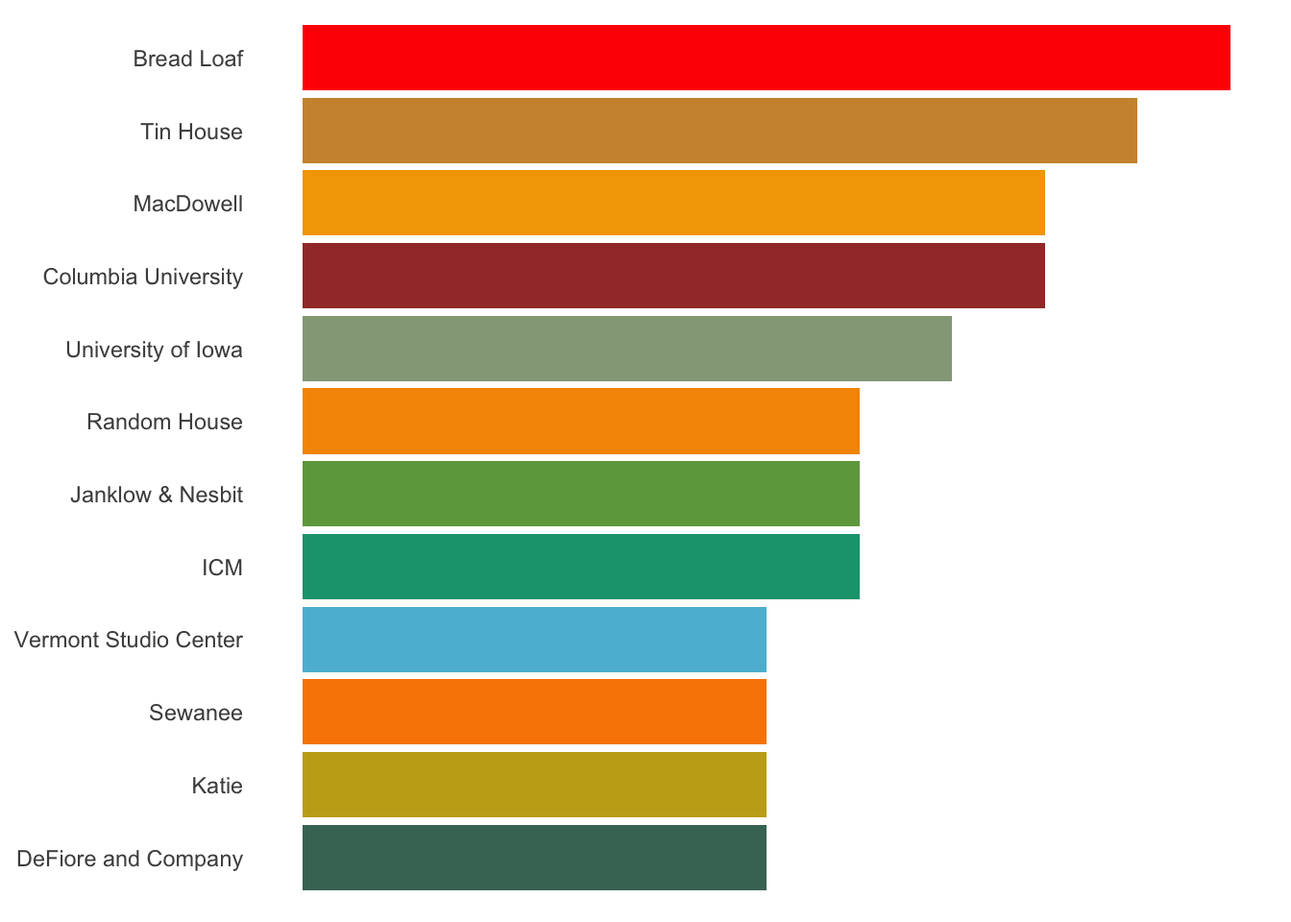
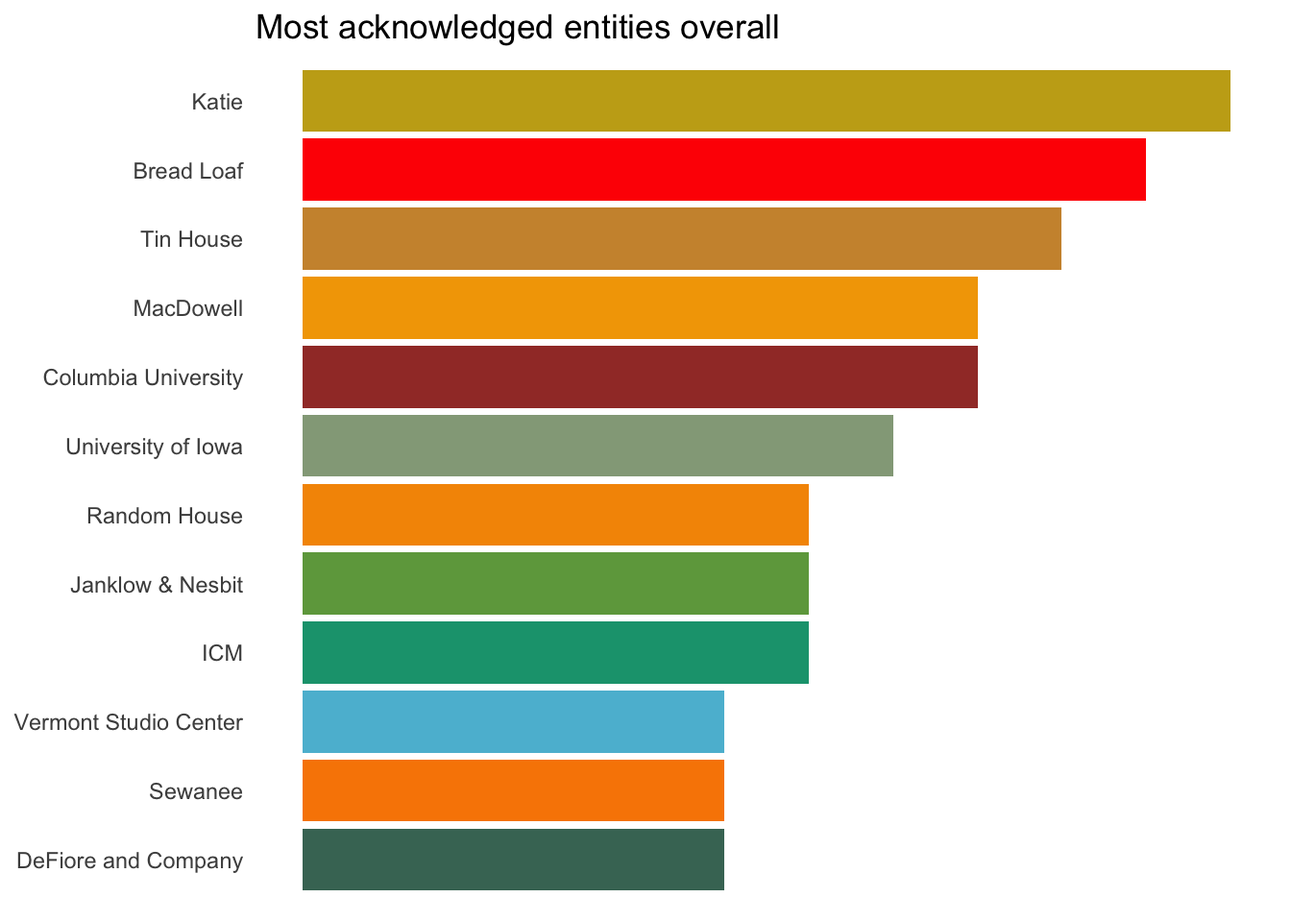
Actually update rmd and add page for my novel

diff --git a/first_observations.html b/first_observations.html
@@ -12,7 +12,7 @@
 
 
 
-<title>Personal Project</title>
+<title>Get You A Katie: An Analysis of Debut Novel Acknowledgements</title>
 
 <script src="site_libs/jquery-1.11.3/jquery.min.js"></script>
 <meta name="viewport" content="width=device-width, initial-scale=1" />
@@ -277,6 +277,9 @@ $(document).ready(function () {
         <li>
   <a href="first_observations.html">Get You A Katie: An Analysis of Debut Novel Acknowledgements</a>
 </li>
+<li>
+  <a href="basic_workflow.html">Everything's Fine: My Debut Novel</a>
+</li>
       </ul>
       <ul class="nav navbar-nav navbar-right">
         
@@ -289,23 +292,70 @@ $(document).ready(function () {
 
 
 
-<h1 class="title toc-ignore">Personal Project</h1>
+<h1 class="title toc-ignore">Get You A Katie: An Analysis of Debut Novel Acknowledgements</h1>
 
 </div>
 
 
-<div id="r-markdown" class="section level2">
-<h2>R Markdown</h2>
-<p>This is an R Markdown document. Markdown is a simple formatting syntax for authoring HTML, PDF, and MS Word documents. For more details on using R Markdown see <a href="http://rmarkdown.rstudio.com" class="uri">http://rmarkdown.rstudio.com</a>.</p>
-<p>When you click the <strong>Knit</strong> button a document will be generated that includes both content as well as the output of any embedded R code chunks within the document. You can embed an R code chunk like this:</p>
-</div>
-<div id="including-plots" class="section level2">
-<h2>Including Plots</h2>
-<p>You can also embed plots, for example:</p>
+<div id="what-is-this" class="section level2">
+<h2>What is this?</h2>
+<p>One of the most oft repeated pieces of advice for aspiring writers looking for literary agents is to look at the acknowledgements section of novels to see which literary agents represent the writers they admire. From there, the advice goes, just query those agents and, with a bit of work and kismit, one day <em>you’ll</em> be the published author whose acknowledgements people are trolling.</p>
+<p>Okay, then!</p>
+<p>The rest of this analysis is me taking that advice… too far? Sure I could have read the acknowledgements, made my list of literary agents and gone about my business, but I had more questions. And when I have questions, I do stuff with data. (I am a novelist cum data scientist, if you recall.)</p>
+<p>I created a dataset consisting of all of the debut authors that had been nominated for the Center for Fiction First Novel Prize in the past three years (2020, 2019, 2018) and did some analysis, based on… you guessed it, the contents of their acknowledgements. In a perfect world, I could do this for every single debut author, ever, but in practice I needed to limit the size of the dataset and chose this particular group of ~80 writers because it seemed like a somewhat representative cohort of fiction that I enjoy and that have also enjoyed some level of acclaim (owing to the prize nomination and all.) Why debut novelists you ask? Well, one, because that’s what I’m working toward. But two, technically speaking, it meant that writers would not be duplicated in the dataset year over year (because, you’re only a debut novelist once.) How elegant!</p>
+<p>Below, I’m dropping that knowledge, for the whole world (i.e. other people writing literary fiction and looking for agents) to enjoy.</p>
+<blockquote>
+<p>Who’s getting shoutouts? (aka: get you a Katie!)</p>
+</blockquote>
+<p>There are a few different types of entities that writers typically acknowledge:</p>
+<ul>
+<li>agents / agencies</li>
+<li>editors / publishing houses</li>
+<li>MFA programs</li>
+<li>Workshops / retreats / foundations</li>
+<li>Friends and family</li>
+</ul>
+<p>For the purposes of this analysis I’ve organized these entities into three broader categories: agencies, organizations, and individuals. The charts below highlight the entities (agencies, organizations, and individuals) that were shouted out the most by the debut authors.</p>
+<p>If we look across all entities we see a mix of agencies and organizations on the leaderboard. You’ll notice only one individual make the top ten overall list. That individual is none other than… <strong>Katie!</strong></p>
+<p>(I found it amusing that 1 out of every 7 debut authors acknowledged someone named Katie… I know, I know, there are lots of Katies out there supporting the arts, but… it’s really hard to get into Bread Loaf or Tin House. Finding a Katie to stan my work, though? Feels more doable.)</p>
 <p><img src="first_observations_files/figure-html/most_thanked_entities-1.png" width="672" /></p>
+<p><img src="first_observations_files/figure-html/most_thanked_agencies-1.png" width="672" /></p>
+<p><img src="first_observations_files/figure-html/most_thanked_individuals-1.png" width="672" /></p>
+<blockquote>
+<p>How many people does it take to write a novel? (spoiler: a small to medium sized village)</p>
+</blockquote>
+<p>We looked at who’s getting shoutouts, now let’s look at how many shoutouts our debut authors are giving. Below is the distribution of the number of entities thanked across all of our authors. So how big a village does it take to write a novel?</p>
+<p><strong>The short answer? 30.</strong></p>
+<p>Most debut novelists acknowledge 29 people or more – call it 30 if we include the author who… probably did the most work?</p>
+<p>The minimum number of entities acknowledged is… 0. (Whomp whomp whomp.) And the maximum is a much more bustling village of 88.</p>
 <p><img src="first_observations_files/figure-html/n_entities_thanked-1.png" width="672" /></p>
-<div id="htmlwidget-92f59d97770d22cf859d" style="width:672px;height:480px;" class="forceNetwork html-widget"></div>
-<script type="application/json" data-for="htmlwidget-92f59d97770d22cf859d">{"x":{"links":{"source":[36,62,15,33,37,23,55,31,29,16,38,6,14,28,40,38,55,54,51,54,51,20,39,10,33,61,23,30,28,54,51,0,30,6,5,5,67,10,53,12,55,46,29,51,15,37,3,16,34,58,3,9,14,58,26,60,21,36,31,1,37,52,26,55,13,2,46,11,22,11,58,23,2,58,41,45,12,46,17,70,54,33,53,6,22,46,52,43,3,34,69,6,44,9,40,30,11,21,31,29,20,24,48,63,15,6,54,51,14,41,31,29,36,39,3,4,19,17,29,24,46,19,64,32,19,2,29,21,1,35,43,55,26,26,2,42,8,54,74,27,8,63,31,29,37,3,32,37,59,60,29,66,48,53,46,8,53,13,50,22,46,58,3,34,12,45,6,52,8,4,17,7,34,45,3,31,29,14,28,15,31,72,54,51,26,26,43,16,21,16,20,6,21,19,57,25,6,6,39,19,58,0,4,61,43,23,41,14,28,36,19,41,38,28,71,57,45,30,47,21,29,31,16,56,42,32,52,18,23,41,32,40,34,3,19,15,57,26,11,57,25,36,29,13,53,33,7,25,57,55,26,4,52,37,4,25,1,40,41,54,12,52,51,27,2,28,14,13,12,29,57,25,13,50,56,4,19,11,29,41,19,36,38,64,36,31,66,10,35,15,25,12,53,62,14,65,20,39,51,54,27,30,28,51,3,34,5,53,75,17,22,41,10,53,4,12,63,20,25,6,2,1,54,11,31,7,18,20,68,28,12,36,9,19,24,31,29,5,18,37,15,67,3,38,69,65,21,58,28,53,5,59,49,16,52,50,37,21,49,73,0,45,25,47,52,41,36,61,38,25],"target":[196,183,183,116,116,116,116,130,130,88,88,88,99,99,99,138,138,142,142,144,144,112,112,178,178,178,178,124,124,143,143,76,76,210,9,9,185,96,96,96,96,96,96,96,96,96,96,217,217,151,151,151,215,157,157,157,157,133,133,77,77,77,159,159,214,148,148,148,148,148,148,148,148,161,161,46,180,180,180,191,160,160,91,91,115,115,139,139,83,83,176,176,176,176,176,190,94,94,128,128,110,110,201,224,87,87,146,146,182,126,126,126,126,199,206,173,173,106,106,188,167,167,167,167,80,80,56,170,170,170,170,158,158,221,171,171,171,171,171,171,212,195,131,131,84,84,175,175,175,175,175,175,141,141,92,92,97,97,114,114,114,193,82,82,25,89,89,86,86,86,86,86,81,81,81,132,132,101,101,102,102,194,145,145,189,122,122,104,104,184,39,90,90,90,117,117,45,45,45,162,162,162,162,162,162,162,162,98,98,108,108,108,125,125,192,140,140,113,113,113,127,127,103,103,136,136,136,107,107,135,135,135,149,149,156,156,154,154,154,119,119,129,129,155,155,211,211,118,118,121,121,207,85,85,85,44,78,78,78,147,147,147,147,147,147,100,100,95,95,95,120,120,181,202,152,152,152,58,109,109,109,109,198,198,134,134,209,93,93,163,163,163,163,163,64,169,111,111,123,123,123,222,222,204,172,174,174,174,203,218,187,187,164,164,164,164,164,164,164,164,164,79,79,179,177,177,177,186,186,186,213,208,208,208,208,208,208,208,220,225,216,219,150,150,223,205,205,153,153,153,153,153,105,105,105,165,165,165,197,197,168,168,168,200,200,137,137,166,166,166],"colour":["FFFFFF","FFFFFF","FFFFFF","FFFFFF","FFFFFF","FFFFFF","FFFFFF","FFFFFF","FFFFFF","FFFFFF","FFFFFF","FFFFFF","FFFFFF","FFFFFF","FFFFFF","FFFFFF","FFFFFF","FFFFFF","FFFFFF","FFFFFF","FFFFFF","FFFFFF","FFFFFF","FFFFFF","FFFFFF","FFFFFF","FFFFFF","FFFFFF","FFFFFF","FFFFFF","FFFFFF","FFFFFF","FFFFFF","FFFFFF","FFFFFF","FFFFFF","FFFFFF","FFFFFF","FFFFFF","FFFFFF","FFFFFF","FFFFFF","FFFFFF","FFFFFF","FFFFFF","FFFFFF","FFFFFF","FFFFFF","FFFFFF","FFFFFF","FFFFFF","FFFFFF","FFFFFF","FFFFFF","FFFFFF","FFFFFF","FFFFFF","FFFFFF","FFFFFF","FFFFFF","FFFFFF","FFFFFF","FFFFFF","FFFFFF","FFFFFF","FFFFFF","FFFFFF","FFFFFF","FFFFFF","FFFFFF","FFFFFF","FFFFFF","FFFFFF","FFFFFF","FFFFFF","FFFFFF","FFFFFF","FFFFFF","FFFFFF","FFFFFF","FFFFFF","FFFFFF","FFFFFF","FFFFFF","FFFFFF","FFFFFF","FFFFFF","FFFFFF","FFFFFF","FFFFFF","FFFFFF","FFFFFF","FFFFFF","FFFFFF","FFFFFF","FFFFFF","FFFFFF","FFFFFF","FFFFFF","FFFFFF","FFFFFF","FFFFFF","FFFFFF","FFFFFF","FFFFFF","FFFFFF","FFFFFF","FFFFFF","FFFFFF","FFFFFF","FFFFFF","FFFFFF","FFFFFF","FFFFFF","FFFFFF","FFFFFF","FFFFFF","FFFFFF","FFFFFF","FFFFFF","FFFFFF","FFFFFF","FFFFFF","FFFFFF","FFFFFF","FFFFFF","FFFFFF","FFFFFF","FFFFFF","FFFFFF","FFFFFF","FFFFFF","FFFFFF","FFFFFF","FFFFFF","FFFFFF","FFFFFF","FFFFFF","FFFFFF","FFFFFF","FFFFFF","FFFFFF","FFFFFF","FFFFFF","FFFFFF","FFFFFF","FFFFFF","FFFFFF","FFFFFF","FFFFFF","FFFFFF","FFFFFF","FFFFFF","FFFFFF","FFFFFF","FFFFFF","FFFFFF","FFFFFF","FFFFFF","FFFFFF","FFFFFF","FFFFFF","FFFFFF","FFFFFF","FFFFFF","FFFFFF","FFFFFF","FFFFFF","FFFFFF","FFFFFF","FFFFFF","FFFFFF","FFFFFF","FFFFFF","FFFFFF","FFFFFF","FFFFFF","FFFFFF","FFFFFF","FFFFFF","FFFFFF","FFFFFF","FFFFFF","FFFFFF","FFFFFF","FFFFFF","FFFFFF","FFFFFF","FFFFFF","FFFFFF","FFFFFF","FFFFFF","FFFFFF","FFFFFF","FFFFFF","FFFFFF","FFFFFF","FFFFFF","FFFFFF","FFFFFF","FFFFFF","FFFFFF","FFFFFF","FFFFFF","FFFFFF","FFFFFF","FFFFFF","FFFFFF","FFFFFF","FFFFFF","FFFFFF","FFFFFF","FFFFFF","FFFFFF","FFFFFF","FFFFFF","FFFFFF","FFFFFF","FFFFFF","FFFFFF","FFFFFF","FFFFFF","FFFFFF","FFFFFF","FFFFFF","FFFFFF","FFFFFF","FFFFFF","FFFFFF","FFFFFF","FFFFFF","FFFFFF","FFFFFF","FFFFFF","FFFFFF","FFFFFF","FFFFFF","FFFFFF","FFFFFF","FFFFFF","FFFFFF","FFFFFF","FFFFFF","FFFFFF","FFFFFF","FFFFFF","FFFFFF","FFFFFF","FFFFFF","FFFFFF","FFFFFF","FFFFFF","FFFFFF","FFFFFF","FFFFFF","FFFFFF","FFFFFF","FFFFFF","FFFFFF","FFFFFF","FFFFFF","FFFFFF","FFFFFF","FFFFFF","FFFFFF","FFFFFF","FFFFFF","FFFFFF","FFFFFF","FFFFFF","FFFFFF","FFFFFF","FFFFFF","FFFFFF","FFFFFF","FFFFFF","FFFFFF","FFFFFF","FFFFFF","FFFFFF","FFFFFF","FFFFFF","FFFFFF","FFFFFF","FFFFFF","FFFFFF","FFFFFF","FFFFFF","FFFFFF","FFFFFF","FFFFFF","FFFFFF","FFFFFF","FFFFFF","FFFFFF","FFFFFF","FFFFFF","FFFFFF","FFFFFF","FFFFFF","FFFFFF","FFFFFF","FFFFFF","FFFFFF","FFFFFF","FFFFFF","FFFFFF","FFFFFF","FFFFFF","FFFFFF","FFFFFF","FFFFFF","FFFFFF","FFFFFF","FFFFFF","FFFFFF","FFFFFF","FFFFFF","FFFFFF","FFFFFF","FFFFFF","FFFFFF","FFFFFF","FFFFFF","FFFFFF","FFFFFF","FFFFFF","FFFFFF","FFFFFF","FFFFFF","FFFFFF","FFFFFF","FFFFFF","FFFFFF","FFFFFF","FFFFFF","FFFFFF","FFFFFF","FFFFFF","FFFFFF","FFFFFF","FFFFFF","FFFFFF","FFFFFF","FFFFFF","FFFFFF","FFFFFF","FFFFFF","FFFFFF","FFFFFF","FFFFFF","FFFFFF","FFFFFF","FFFFFF","FFFFFF","FFFFFF","FFFFFF","FFFFFF","FFFFFF","FFFFFF","FFFFFF","FFFFFF","FFFFFF","FFFFFF","FFFFFF","FFFFFF","FFFFFF","FFFFFF","FFFFFF","FFFFFF"]},"nodes":{"name":["Charlie Kaufman","K-Ming Chang","Afia Atakora","Kelli Jo Ford","Chelsea Bieker","C Pam Zhang","Kate Milliken","Raven Leilani","Kate Elizabeth Russell","Brandon Taylor","Kawai Strong Washburn","Hilary Leichter","Diane Zinna","Sahar Mustafah","Alka Joshi","Clare Beams","Maisy Card","Nancy Wayson Dinan","Celia Laskey","Elizabeth Wetmore","Susie Yang","Melissa Rivero","Lauren Wilkinson","Pitchaya Sudbanthad","Cara Wall","Julia Phillips","Dana Czapnik","Joanne Ramos","Miciah Bay Gault","De'Shawn Charles Winslow","Chanelle Benz","Claire Lombardo","Namwali Serpell","Ocean Vuong","Lauren Acampora","Fernando A. Flores","Chia-Chia Lin","Maurice Carlos Ruffin","Jasmin Darznik","Lucy Tan","Melissa Broder","Fatima Farheen Mirza","Jen Beagin","Moriel Rothman-Zecher","Rachel Lyon","Lydia Kiesling","Crystal Hana Kim","Lexi Freiman","Lillian Li","Nafkote Tamirat","Elaine Castillo","Xhenet Aliu","Jordy Rosenberg","Blair Hurley","Paula Saunders","Kaitlyn Greenidge","Helen Phillips","Garth Risk Hallberg","Ruchika Tomar","Ryan Chapman","Dan Sheehan","Tommy Orange","Corey Sobel","Rachel Eve Moulton","Shobha Rao","Callan Wink","Amina Cain","Kate Petty Reed","Joe Wilkins","Jake Wolff","Elvia Wilk","Tope Folarin","Mathangi Subramanian","Ta-Nahisi Coates","Tadzio Koelb","Lisa Halliday","Ben Greenberg","Chris Jackson","Rachel Rokicki","Toni Morrison","Helen Garnons-Williams","Katie Raissian","Judy Hottensen","Deb Seager","James Nolan","Rachel Kushner","Katie","Emily Mahon","Amy Hempel","Kara Levy","Luis Alberto Urrea","Darin Strauss","Jessica Williams","Sean McDonald","Dennis Norris II","Rebecca Makkai","Bread Loaf","Jill Bialosky","Margaret Marbury","Amy Jones","Randy Chan","Laura Gianino","Lee Boudreaux","Michael Cunningham","Lisa Ko","Victor LaValle","Grace McNamee","Michelle Koufopoulos","Marilynne Robinson","Samantha Chang","Elizabeth Breeden","Stephen Hogsten","Angela Wu","Megan Lynch","John Freeman","David Ebershoff","Alexander Chee","Lydia Buechler","Paul Bogaards","Nicholas Latimer","Robin Desser","Peter Carey","Lisa Keim","Susan Kamil","Arthur Flowers","Mary Karr","Ethan Canin","Mia Bailey","Drew Calvert","Noel Carver","Amanda Dennis","Jade Jones","Kevin Smith","Charlie DAmbrosio","Sarah Frye","Molly Stern","Michael Taeckens","Wystan Owen","Andra Miller","David Shulman","Max Magee","Jeffrey Eugenides","Andrea Walker","Avideh Bashirrad","Andy Ward","Leigh Marchant","Emma Caruso","Random House","Columbia University","Morgan Entrekin","University of Texas","Cal Morgan","Rona Jaffe Foundation","Vermont Studio Center","New York Foundation for the Arts","Norton","National Endowment for the Arts","Center for Fiction","Hunter","Colleges MFA","Dana","Creative Writing Department","MacDowell","Sewanee","Tin House","VONA","Yaddo","Hedgebrook","William Morris Endeavor","Steinberg Agency","HG Literary","ICM","The Cheney Agency","Georges Borchardt","The Clegg Agency","Janklow & Nesbit","DeFiore and Company","Trident Media Group","Aragi, Inc.","Triangle House Literary","Curtis Brown","Robin Straus Agency","Emma Sweeney Agency","Aevitas Creative Management","Liza Dawson Associates","Brandt & Hochman","Union Literary","The Wylie Agency","Harvey Klinger","Levine Greenberg Rostan","Denise Shannon Literary Agency","Cynthia Cannell Literary Agency","Massie and McQuilkin","Joy Harris Literary Agency","Leigh Feldman Literary","Inkwell Management","3 Arts Entertainment","Watkins/Loomis Agency","Sandra Dijkstra Literary Agency","Fletcher & Company","Writers House","Elyse Cheney Agency","Rogers, Coleridge & White","The Genert Company","The Book Group","University of Wyoming","George Mason University","Portland State University","University of Iowa","School of the Art Institute of Chicago","Bennington Writing Seminars","NYU","Indiana University","University of Florida","Columbia College","California College of Arts","University of North Carolina at Greensboro","Brooklyn College","The Ohio State University","University of St. Andrews","University of New Mexico","Hunter College","Syracuse","University of Wisconsin-Madison","Emerson College","University of New Orleans"],"group":["Author","Author","Author","Author","Author","Author","Author","Author","Author","Author","Author","Author","Author","Author","Author","Author","Author","Author","Author","Author","Author","Author","Author","Author","Author","Author","Author","Author","Author","Author","Author","Author","Author","Author","Author","Author","Author","Author","Author","Author","Author","Author","Author","Author","Author","Author","Author","Author","Author","Author","Author","Author","Author","Author","Author","Author","Author","Author","Author","Author","Author","Author","Author","Author","Author","Author","Author","Author","Author","Author","Author","Author","Author","Author","Author","Author","Friend","Friend","Friend","Friend","Friend","Friend","Friend","Friend","Friend","Friend","Friend","Friend","Friend","Friend","Friend","Friend","Friend","Friend","Friend","Friend","Organization","Friend","Friend","Friend","Friend","Friend","Friend","Friend","Friend","Friend","Friend","Friend","Friend","Friend","Friend","Friend","Friend","Friend","Friend","Friend","Friend","Friend","Friend","Friend","Friend","Friend","Friend","Friend","Friend","Friend","Friend","Friend","Friend","Friend","Friend","Friend","Friend","Friend","Friend","Friend","Friend","Friend","Friend","Friend","Friend","Friend","Friend","Friend","Friend","Friend","Friend","Organization","Organization","Organization","Organization","Organization","Organization","Organization","Organization","Organization","Organization","Organization","Organization","Organization","Organization","Organization","Organization","Organization","Organization","Organization","Organization","Organization","Agency","Agency","Agency","Agency","Agency","Agency","Agency","Agency","Agency","Agency","Agency","Agency","Agency","Agency","Agency","Agency","Agency","Agency","Agency","Agency","Agency","Agency","Agency","Agency","Agency","Agency","Agency","Agency","Agency","Agency","Agency","Agency","Agency","Agency","Agency","Agency","Agency","Friend","Organization","Friend","Friend","Friend","Friend","Friend","Friend","Friend","Friend","Friend","Friend","Organization","Friend","Friend","Friend","Friend","Friend","Organization","Organization","Friend"],"nodesize":[0,0,0,0,0,1,1,0,0,1,0,0,0,0,0,0,0,0,0,0,0,0,0,0,0,8,0,0,0,0,0,0,0,0,0,0,0,0,0,8,0,0,0,0,0,1,1,0,0,0,0,0,0,0,0,0,1,0,1,0,0,0,0,0,1,0,0,0,0,0,0,0,0,0,0,0,8,27,27,8,8,27,8,8,8,27,125,8,27,8,27,8,8,8,8,27,1000,8,8,27,8,8,8,8,8,27,8,8,27,64,8,8,8,27,27,8,64,8,8,8,8,8,8,27,8,8,64,8,8,8,8,8,8,8,8,27,27,8,8,8,8,8,8,8,8,8,8,216,512,8,8,27,27,125,27,8,8,64,8,8,8,8,512,125,729,27,27,64,27,1,64,216,1,8,27,216,125,27,64,1,27,1,1,8,1,1,27,8,1,1,1,1,1,1,1,1,1,8,8,1,8,1,1,1,1,8,1,1,343,1,1,8,1,1,1,1,1,8,1,1,1,1,8,1,1,1]},"options":{"NodeID":"name","Group":"group","colourScale":"d3.scaleOrdinal()\n            .domain([\"Author\", \"Agency\", \"Organization\", \"Friend\"])\n           .range([\"#FF0000\", \"#F2AD00\", \"#00A08A\", \"#5BBCD6\"]);","fontSize":16,"fontFamily":"serif","clickTextSize":40,"linkDistance":50,"linkWidth":"function(d) { return Math.sqrt(d.value); }","charge":-30,"opacity":0.8,"zoom":false,"legend":true,"arrows":false,"nodesize":true,"radiusCalculation":" Math.sqrt(d.nodesize)+6","bounded":true,"opacityNoHover":0.5,"clickAction":null}},"evals":[],"jsHooks":[]}</script>
+<blockquote>
+<p>But, like, do they all have fancy MFAs and exclusive residencies? Are all these award winning debut novelists best friends? Because it kind of seems like they are on Twitter…</p>
+</blockquote>
+<p>This was the question that was really gnawing at me when I started this whole exercise. As a fairly avid reader of novel acknowledgements I see the same names over and over again, which leads me to believe that novel publishing is a super exclusive closed circuit that no mere mortal can simply enter at will. But then again… I do have an active imagination (I am writer after all!) so I wanted to put my intuition to the test.</p>
+<p>To do that I created a social graph based on the debut novelist’s acknowledgements section. I used a natural language processing model to extract all of the named entities from the text of each author’s acknowledgements. There are two major limitations with this approach which I will call out now:</p>
+<ul>
+<li>Just because someone isn’t acknowledged by a writer doesn’t mean that person isn’t in that writer’s social network.</li>
+<li>Our natural language processing model isn’t perfect so sometimes it
+<ul>
+<li>Miscategorizes entities (e.g. assumes Sewanee is a place not an organization)</li>
+<li>Doesn’t fully recognize entities (e.g. Iowa is distinct from University of Iowa)</li>
+</ul></li>
+</ul>
+<p>The second problem is easier to address than the first, so I did try to clean the data manually a bit, but it probably still isn’t perfect. (e.g. Curtis Brown is actually an organization but may be labeled as an individual.) But I think it’s good enough for government work. The first problem is kind of a philosophical one and I’m just going to assert here that if a writer didn’t acknowledge an entity in the approximately 2,500 words the average author allocated to their acknowledgements that entity is not in that writer’s inner circle.</p>
+<p>Now onto the graph.</p>
+<p>It’s color coded based on whether the entity is a:</p>
+<ul>
+<li>debut author</li>
+<li>agency</li>
+<li>other organization (e.g. workshop, residency, MFA program)</li>
+<li>an individual / friend</li>
+</ul>
+<p>The bigger the bubble and the more central the bubble is in the chart the more important that bubble is to the social network. So the biggest bubble (Bread Loaf) represents the node in the network that is most central.</p>
+<p>You can click on the bubbles to see what other entities they are connected to. You can also drag the bubbles around to see what amount of force they exert on the network. (The more the network moves with the bubble, the bigger its influence.)</p>
+<p><strong>Social network of 80 award nominated debut authors</strong></p>
+<div id="htmlwidget-764aff30137989b98f8f" style="width:672px;height:480px;" class="forceNetwork html-widget"></div>
+<script type="application/json" data-for="htmlwidget-764aff30137989b98f8f">{"x":{"links":{"source":[36,62,15,33,37,23,55,31,29,16,38,6,14,28,40,38,55,54,51,54,51,20,39,10,33,61,23,30,28,54,51,0,30,6,5,5,67,10,53,12,55,46,29,51,15,37,3,16,34,58,3,9,14,58,26,60,21,36,31,1,37,52,26,55,13,2,46,11,22,11,58,23,2,58,41,45,12,46,17,70,54,33,53,6,22,46,52,43,3,34,69,6,44,9,40,30,11,21,31,29,20,24,48,63,15,6,54,51,14,41,31,29,36,39,3,4,19,17,29,24,46,19,64,32,19,2,29,21,1,35,43,55,26,26,2,42,8,54,74,27,8,63,31,29,37,3,32,37,59,60,29,66,48,53,46,8,53,13,50,22,46,58,3,34,12,45,6,52,8,4,17,7,34,45,3,31,29,14,28,15,31,72,54,51,26,26,43,16,21,16,20,6,21,19,57,25,6,6,39,19,58,0,4,61,43,23,41,14,28,36,19,41,38,28,71,57,45,30,47,21,29,31,16,56,42,32,52,18,23,41,32,40,34,3,19,15,57,26,11,57,25,36,29,13,53,33,7,25,57,55,26,4,52,37,4,25,1,40,41,54,12,52,51,27,2,28,14,13,12,29,57,25,13,50,56,4,19,11,29,41,19,36,38,64,36,31,66,10,35,15,25,12,53,62,14,65,20,39,51,54,27,30,28,51,3,34,5,53,75,17,22,41,10,53,4,12,63,20,25,6,2,1,54,11,31,7,18,20,68,28,12,36,9,19,24,31,29,5,18,37,15,67,3,38,69,65,21,58,28,53,5,59,49,16,52,50,37,21,49,73,0,45,25,47,52,41,36,61,38,25],"target":[196,183,183,116,116,116,116,130,130,88,88,88,99,99,99,138,138,142,142,144,144,112,112,178,178,178,178,124,124,143,143,76,76,210,9,9,185,96,96,96,96,96,96,96,96,96,96,217,217,151,151,151,215,157,157,157,157,133,133,77,77,77,159,159,214,148,148,148,148,148,148,148,148,161,161,46,180,180,180,191,160,160,91,91,115,115,139,139,83,83,176,176,176,176,176,190,94,94,128,128,110,110,201,224,87,87,146,146,182,126,126,126,126,199,206,173,173,106,106,188,167,167,167,167,80,80,56,170,170,170,170,158,158,221,171,171,171,171,171,171,212,195,131,131,84,84,175,175,175,175,175,175,141,141,92,92,97,97,114,114,114,193,82,82,25,89,89,86,86,86,86,86,81,81,81,132,132,101,101,102,102,194,145,145,189,122,122,104,104,184,39,90,90,90,117,117,45,45,45,162,162,162,162,162,162,162,162,98,98,108,108,108,125,125,192,140,140,113,113,113,127,127,103,103,136,136,136,107,107,135,135,135,149,149,156,156,154,154,154,119,119,129,129,155,155,211,211,118,118,121,121,207,85,85,85,44,78,78,78,147,147,147,147,147,147,100,100,95,95,95,120,120,181,202,152,152,152,58,109,109,109,109,198,198,134,134,209,93,93,163,163,163,163,163,64,169,111,111,123,123,123,222,222,204,172,174,174,174,203,218,187,187,164,164,164,164,164,164,164,164,164,79,79,179,177,177,177,186,186,186,213,208,208,208,208,208,208,208,220,225,216,219,150,150,223,205,205,153,153,153,153,153,105,105,105,165,165,165,197,197,168,168,168,200,200,137,137,166,166,166],"colour":["FFFFFF","FFFFFF","FFFFFF","FFFFFF","FFFFFF","FFFFFF","FFFFFF","FFFFFF","FFFFFF","FFFFFF","FFFFFF","FFFFFF","FFFFFF","FFFFFF","FFFFFF","FFFFFF","FFFFFF","FFFFFF","FFFFFF","FFFFFF","FFFFFF","FFFFFF","FFFFFF","FFFFFF","FFFFFF","FFFFFF","FFFFFF","FFFFFF","FFFFFF","FFFFFF","FFFFFF","FFFFFF","FFFFFF","FFFFFF","FFFFFF","FFFFFF","FFFFFF","FFFFFF","FFFFFF","FFFFFF","FFFFFF","FFFFFF","FFFFFF","FFFFFF","FFFFFF","FFFFFF","FFFFFF","FFFFFF","FFFFFF","FFFFFF","FFFFFF","FFFFFF","FFFFFF","FFFFFF","FFFFFF","FFFFFF","FFFFFF","FFFFFF","FFFFFF","FFFFFF","FFFFFF","FFFFFF","FFFFFF","FFFFFF","FFFFFF","FFFFFF","FFFFFF","FFFFFF","FFFFFF","FFFFFF","FFFFFF","FFFFFF","FFFFFF","FFFFFF","FFFFFF","FFFFFF","FFFFFF","FFFFFF","FFFFFF","FFFFFF","FFFFFF","FFFFFF","FFFFFF","FFFFFF","FFFFFF","FFFFFF","FFFFFF","FFFFFF","FFFFFF","FFFFFF","FFFFFF","FFFFFF","FFFFFF","FFFFFF","FFFFFF","FFFFFF","FFFFFF","FFFFFF","FFFFFF","FFFFFF","FFFFFF","FFFFFF","FFFFFF","FFFFFF","FFFFFF","FFFFFF","FFFFFF","FFFFFF","FFFFFF","FFFFFF","FFFFFF","FFFFFF","FFFFFF","FFFFFF","FFFFFF","FFFFFF","FFFFFF","FFFFFF","FFFFFF","FFFFFF","FFFFFF","FFFFFF","FFFFFF","FFFFFF","FFFFFF","FFFFFF","FFFFFF","FFFFFF","FFFFFF","FFFFFF","FFFFFF","FFFFFF","FFFFFF","FFFFFF","FFFFFF","FFFFFF","FFFFFF","FFFFFF","FFFFFF","FFFFFF","FFFFFF","FFFFFF","FFFFFF","FFFFFF","FFFFFF","FFFFFF","FFFFFF","FFFFFF","FFFFFF","FFFFFF","FFFFFF","FFFFFF","FFFFFF","FFFFFF","FFFFFF","FFFFFF","FFFFFF","FFFFFF","FFFFFF","FFFFFF","FFFFFF","FFFFFF","FFFFFF","FFFFFF","FFFFFF","FFFFFF","FFFFFF","FFFFFF","FFFFFF","FFFFFF","FFFFFF","FFFFFF","FFFFFF","FFFFFF","FFFFFF","FFFFFF","FFFFFF","FFFFFF","FFFFFF","FFFFFF","FFFFFF","FFFFFF","FFFFFF","FFFFFF","FFFFFF","FFFFFF","FFFFFF","FFFFFF","FFFFFF","FFFFFF","FFFFFF","FFFFFF","FFFFFF","FFFFFF","FFFFFF","FFFFFF","FFFFFF","FFFFFF","FFFFFF","FFFFFF","FFFFFF","FFFFFF","FFFFFF","FFFFFF","FFFFFF","FFFFFF","FFFFFF","FFFFFF","FFFFFF","FFFFFF","FFFFFF","FFFFFF","FFFFFF","FFFFFF","FFFFFF","FFFFFF","FFFFFF","FFFFFF","FFFFFF","FFFFFF","FFFFFF","FFFFFF","FFFFFF","FFFFFF","FFFFFF","FFFFFF","FFFFFF","FFFFFF","FFFFFF","FFFFFF","FFFFFF","FFFFFF","FFFFFF","FFFFFF","FFFFFF","FFFFFF","FFFFFF","FFFFFF","FFFFFF","FFFFFF","FFFFFF","FFFFFF","FFFFFF","FFFFFF","FFFFFF","FFFFFF","FFFFFF","FFFFFF","FFFFFF","FFFFFF","FFFFFF","FFFFFF","FFFFFF","FFFFFF","FFFFFF","FFFFFF","FFFFFF","FFFFFF","FFFFFF","FFFFFF","FFFFFF","FFFFFF","FFFFFF","FFFFFF","FFFFFF","FFFFFF","FFFFFF","FFFFFF","FFFFFF","FFFFFF","FFFFFF","FFFFFF","FFFFFF","FFFFFF","FFFFFF","FFFFFF","FFFFFF","FFFFFF","FFFFFF","FFFFFF","FFFFFF","FFFFFF","FFFFFF","FFFFFF","FFFFFF","FFFFFF","FFFFFF","FFFFFF","FFFFFF","FFFFFF","FFFFFF","FFFFFF","FFFFFF","FFFFFF","FFFFFF","FFFFFF","FFFFFF","FFFFFF","FFFFFF","FFFFFF","FFFFFF","FFFFFF","FFFFFF","FFFFFF","FFFFFF","FFFFFF","FFFFFF","FFFFFF","FFFFFF","FFFFFF","FFFFFF","FFFFFF","FFFFFF","FFFFFF","FFFFFF","FFFFFF","FFFFFF","FFFFFF","FFFFFF","FFFFFF","FFFFFF","FFFFFF","FFFFFF","FFFFFF","FFFFFF","FFFFFF","FFFFFF","FFFFFF","FFFFFF","FFFFFF","FFFFFF","FFFFFF","FFFFFF","FFFFFF","FFFFFF","FFFFFF","FFFFFF","FFFFFF","FFFFFF","FFFFFF","FFFFFF","FFFFFF","FFFFFF","FFFFFF","FFFFFF","FFFFFF","FFFFFF","FFFFFF","FFFFFF","FFFFFF","FFFFFF","FFFFFF","FFFFFF","FFFFFF","FFFFFF","FFFFFF","FFFFFF","FFFFFF","FFFFFF","FFFFFF","FFFFFF","FFFFFF","FFFFFF","FFFFFF","FFFFFF","FFFFFF","FFFFFF","FFFFFF","FFFFFF","FFFFFF"]},"nodes":{"name":["Charlie Kaufman","K-Ming Chang","Afia Atakora","Kelli Jo Ford","Chelsea Bieker","C Pam Zhang","Kate Milliken","Raven Leilani","Kate Elizabeth Russell","Brandon Taylor","Kawai Strong Washburn","Hilary Leichter","Diane Zinna","Sahar Mustafah","Alka Joshi","Clare Beams","Maisy Card","Nancy Wayson Dinan","Celia Laskey","Elizabeth Wetmore","Susie Yang","Melissa Rivero","Lauren Wilkinson","Pitchaya Sudbanthad","Cara Wall","Julia Phillips","Dana Czapnik","Joanne Ramos","Miciah Bay Gault","De'Shawn Charles Winslow","Chanelle Benz","Claire Lombardo","Namwali Serpell","Ocean Vuong","Lauren Acampora","Fernando A. Flores","Chia-Chia Lin","Maurice Carlos Ruffin","Jasmin Darznik","Lucy Tan","Melissa Broder","Fatima Farheen Mirza","Jen Beagin","Moriel Rothman-Zecher","Rachel Lyon","Lydia Kiesling","Crystal Hana Kim","Lexi Freiman","Lillian Li","Nafkote Tamirat","Elaine Castillo","Xhenet Aliu","Jordy Rosenberg","Blair Hurley","Paula Saunders","Kaitlyn Greenidge","Helen Phillips","Garth Risk Hallberg","Ruchika Tomar","Ryan Chapman","Dan Sheehan","Tommy Orange","Corey Sobel","Rachel Eve Moulton","Shobha Rao","Callan Wink","Amina Cain","Kate Petty Reed","Joe Wilkins","Jake Wolff","Elvia Wilk","Tope Folarin","Mathangi Subramanian","Ta-Nahisi Coates","Tadzio Koelb","Lisa Halliday","Ben Greenberg","Chris Jackson","Rachel Rokicki","Toni Morrison","Helen Garnons-Williams","Katie Raissian","Judy Hottensen","Deb Seager","James Nolan","Rachel Kushner","Katie","Emily Mahon","Amy Hempel","Kara Levy","Luis Alberto Urrea","Darin Strauss","Jessica Williams","Sean McDonald","Dennis Norris II","Rebecca Makkai","Bread Loaf","Jill Bialosky","Margaret Marbury","Amy Jones","Randy Chan","Laura Gianino","Lee Boudreaux","Michael Cunningham","Lisa Ko","Victor LaValle","Grace McNamee","Michelle Koufopoulos","Marilynne Robinson","Samantha Chang","Elizabeth Breeden","Stephen Hogsten","Angela Wu","Megan Lynch","John Freeman","David Ebershoff","Alexander Chee","Lydia Buechler","Paul Bogaards","Nicholas Latimer","Robin Desser","Peter Carey","Lisa Keim","Susan Kamil","Arthur Flowers","Mary Karr","Ethan Canin","Mia Bailey","Drew Calvert","Noel Carver","Amanda Dennis","Jade Jones","Kevin Smith","Charlie DAmbrosio","Sarah Frye","Molly Stern","Michael Taeckens","Wystan Owen","Andra Miller","David Shulman","Max Magee","Jeffrey Eugenides","Andrea Walker","Avideh Bashirrad","Andy Ward","Leigh Marchant","Emma Caruso","Random House","Columbia University","Morgan Entrekin","University of Texas","Cal Morgan","Rona Jaffe Foundation","Vermont Studio Center","New York Foundation for the Arts","Norton","National Endowment for the Arts","Center for Fiction","Hunter","Colleges MFA","Dana","Creative Writing Department","MacDowell","Sewanee","Tin House","VONA","Yaddo","Hedgebrook","William Morris Endeavor","Steinberg Agency","HG Literary","ICM","The Cheney Agency","Georges Borchardt","The Clegg Agency","Janklow & Nesbit","DeFiore and Company","Trident Media Group","Aragi, Inc.","Triangle House Literary","Curtis Brown","Robin Straus Agency","Emma Sweeney Agency","Aevitas Creative Management","Liza Dawson Associates","Brandt & Hochman","Union Literary","The Wylie Agency","Harvey Klinger","Levine Greenberg Rostan","Denise Shannon Literary Agency","Cynthia Cannell Literary Agency","Massie and McQuilkin","Joy Harris Literary Agency","Leigh Feldman Literary","Inkwell Management","3 Arts Entertainment","Watkins/Loomis Agency","Sandra Dijkstra Literary Agency","Fletcher & Company","Writers House","Elyse Cheney Agency","Rogers, Coleridge & White","The Genert Company","The Book Group","University of Wyoming","George Mason University","Portland State University","University of Iowa","School of the Art Institute of Chicago","Bennington Writing Seminars","NYU","Indiana University","University of Florida","Columbia College","California College of Arts","University of North Carolina at Greensboro","Brooklyn College","The Ohio State University","University of St. Andrews","University of New Mexico","Hunter College","Syracuse","University of Wisconsin-Madison","Emerson College","University of New Orleans"],"group":["Debut Author","Debut Author","Debut Author","Debut Author","Debut Author","Debut Author","Debut Author","Debut Author","Debut Author","Debut Author","Debut Author","Debut Author","Debut Author","Debut Author","Debut Author","Debut Author","Debut Author","Debut Author","Debut Author","Debut Author","Debut Author","Debut Author","Debut Author","Debut Author","Debut Author","Debut Author","Debut Author","Debut Author","Debut Author","Debut Author","Debut Author","Debut Author","Debut Author","Debut Author","Debut Author","Debut Author","Debut Author","Debut Author","Debut Author","Debut Author","Debut Author","Debut Author","Debut Author","Debut Author","Debut Author","Debut Author","Debut Author","Debut Author","Debut Author","Debut Author","Debut Author","Debut Author","Debut Author","Debut Author","Debut Author","Debut Author","Debut Author","Debut Author","Debut Author","Debut Author","Debut Author","Debut Author","Debut Author","Debut Author","Debut Author","Debut Author","Debut Author","Debut Author","Debut Author","Debut Author","Debut Author","Debut Author","Debut Author","Debut Author","Debut Author","Debut Author","Individual","Individual","Individual","Individual","Individual","Individual","Individual","Individual","Individual","Individual","Individual","Individual","Individual","Individual","Individual","Individual","Individual","Individual","Individual","Individual","Organization","Individual","Individual","Individual","Individual","Individual","Individual","Individual","Individual","Individual","Individual","Individual","Individual","Individual","Individual","Individual","Individual","Individual","Individual","Individual","Individual","Individual","Individual","Individual","Individual","Individual","Individual","Individual","Individual","Individual","Individual","Individual","Individual","Individual","Individual","Individual","Individual","Individual","Individual","Individual","Individual","Individual","Individual","Individual","Individual","Individual","Individual","Individual","Individual","Individual","Individual","Organization","Organization","Organization","Organization","Organization","Organization","Organization","Organization","Organization","Organization","Organization","Organization","Organization","Organization","Organization","Organization","Organization","Organization","Organization","Organization","Organization","Agency","Agency","Agency","Agency","Agency","Agency","Agency","Agency","Agency","Agency","Agency","Agency","Agency","Agency","Agency","Agency","Agency","Agency","Agency","Agency","Agency","Agency","Agency","Agency","Agency","Agency","Agency","Agency","Agency","Agency","Agency","Agency","Agency","Agency","Agency","Agency","Agency","Individual","Organization","Individual","Individual","Individual","Individual","Individual","Individual","Individual","Individual","Individual","Individual","Organization","Individual","Individual","Individual","Individual","Individual","Organization","Organization","Individual"],"nodesize":[0,0,0,0,0,1,1,0,0,1,0,0,0,0,0,0,0,0,0,0,0,0,0,0,0,8,0,0,0,0,0,0,0,0,0,0,0,0,0,8,0,0,0,0,0,1,1,0,0,0,0,0,0,0,0,0,1,0,1,0,0,0,0,0,1,0,0,0,0,0,0,0,0,0,0,0,8,27,27,8,8,27,8,8,8,27,125,8,27,8,27,8,8,8,8,27,1000,8,8,27,8,8,8,8,8,27,8,8,27,64,8,8,8,27,27,8,64,8,8,8,8,8,8,27,8,8,64,8,8,8,8,8,8,8,8,27,27,8,8,8,8,8,8,8,8,8,8,216,512,8,8,27,27,125,27,8,8,64,8,8,8,8,512,125,729,27,27,64,27,1,64,216,1,8,27,216,125,27,64,1,27,1,1,8,1,1,27,8,1,1,1,1,1,1,1,1,1,8,8,1,8,1,1,1,1,8,1,1,343,1,1,8,1,1,1,1,1,8,1,1,1,1,8,1,1,1]},"options":{"NodeID":"name","Group":"group","colourScale":"d3.scaleOrdinal()\n            .domain([\"Debut Author\", \"Agency\", \"Organization\", \"Individual\"])\n           .range([\"#FF0000\", \"#F2AD00\", \"#00A08A\", \"#5BBCD6\"]);","fontSize":16,"fontFamily":"serif","clickTextSize":40,"linkDistance":50,"linkWidth":"function(d) { return Math.sqrt(d.value); }","charge":-30,"opacity":0.8,"zoom":false,"legend":true,"arrows":false,"nodesize":true,"radiusCalculation":" Math.sqrt(d.nodesize)+6","bounded":true,"opacityNoHover":0.5,"clickAction":null}},"evals":[],"jsHooks":[]}</script>
 </div>
 
 

diff --git a/basic_workflow.html b/basic_workflow.html
@@ -12,7 +12,7 @@
 
 
 
-<title>Basic workflow</title>
+<title>Everything’s Fine: My Debut Novel</title>
 
 <script src="site_libs/jquery-1.11.3/jquery.min.js"></script>
 <meta name="viewport" content="width=device-width, initial-scale=1" />
@@ -274,6 +274,9 @@ $(document).ready(function () {
         <li>
   <a href="first_observations.html">Get You A Katie: An Analysis of Debut Novel Acknowledgements</a>
 </li>
+<li>
+  <a href="basic_workflow.html">Everything's Fine: My Debut Novel</a>
+</li>
       </ul>
       <ul class="nav navbar-nav navbar-right">
         
@@ -286,94 +289,12 @@ $(document).ready(function () {
 
 
 
-<h1 class="title toc-ignore">Basic workflow</h1>
+<h1 class="title toc-ignore">Everything’s Fine: My Debut Novel</h1>
 
 </div>
 
 
-<p>Building websites uses the same reproducible workflow you can use for your analyses and collaborations. It is very iterative. You can do it all from RStudio, with a combination of clicking or typing commands as you feel comfortable.</p>
-<ol style="list-style-type: decimal">
-<li>add content (text, code, images, etc) in an RMarkdown file</li>
-<li>knit the RMarkdown file to view</li>
-<li>update <code>_site.yml</code> (perhaps, if it is a new file)</li>
-<li>build the website
-<ul>
-<li>Build tab &gt; Build Website or</li>
-<li>in the console: <code>rmarkdown::render_site()</code></li>
-</ul></li>
-<li>repeat, repeat, repeat</li>
-<li>commit and push your website to github, it’s live!</li>
-<li>repeat all of the above</li>
-</ol>
-<p>Let’s see what this looks like. We are not going to have time to learn all of the capabilities of R Markdown today, but the purpose here is to give you familiarlity with the workflow and confidence to explore further on your own.</p>
-<hr />
-<div id="rstudio-landscape" class="section level2">
-<h2>RStudio landscape</h2>
-<p>Here is what you’ll see when you’ve opened our <code>rmarkdown-website-tutorial</code> project in RStudio.</p>
-<p>The ‘Build tab’ in the top right corner will show up once RStudio knows you’re making a website, don’t worry if you don’t have it yet.</p>
-<p>If we open <code>index.Rmd</code> we will see that it’s all text with a bit of formatting. This top part is called the ‘front matter’.</p>
-<p><img src="https://docs.google.com/drawings/d/1ff_I5VJAtmF0FYZOIFE6ZW_-8sfwfoOij2AR0eyFs00/pub?w=960&amp;h=720" /></p>
-<p><br></p>
-</div>
-<div id="markdown-syntax" class="section level2">
-<h2>Markdown Syntax</h2>
-<p>Now let’s look explore the first few webpages/R Markdown files to get familiar with Markdown syntax:</p>
-<ul>
-<li><code>index.Rmd</code></li>
-<li><code>first_observations.Rmd</code></li>
-<li><code>basic_workflow.Rmd</code></li>
-</ul>
-<p>These first few pages have simple formatting (<strong>bold</strong>, <em>italics</em>), headers, bullet points, links, and images. These are the majority of things you’ll do in Markdown. See a full list of options at <a href="http://rmarkdown.rstudio.com/authoring_basics.html"><strong>RStudio’s Markdown basics</strong></a> or go to Help &gt; Markdown Quick Reference. Also, check out their <a href="https://www.rstudio.com/resources/cheatsheets/">R Markdown cheatsheet</a>.</p>
-<p>Notice that you can insert images locally (from the /images folder), or from online e.g. Google Drawings!</p>
-<p>From <a href="http://rmarkdown.rstudio.com/lesson-8.html">rmarkdown.rstudio.com lesson 8</a>:</p>
-<p><img src="images/markdown_rmarkdownlesson-8.png" /></p>
-<p><br></p>
-</div>
-<div id="build-your-website" class="section level2">
-<h2>Build your website!</h2>
-<p>Let’s make a few changes to this file and knit it to inspect. Try adding some new Markdown formatted text.</p>
-<p>Also, now is a good time to make sure you have the the Build tab; you may need to install <code>rmarkdown</code> if you haven’t already (below).</p>
-<p>Click <code>Build Website</code> in the Build tab (or type <code>rmarkdown::render_site()</code> in the Console) and inspect your Website! Commit and push to see it live online.</p>
-<p><br></p>
-</div>
-<div id="other" class="section level2">
-<h2>Other</h2>
-<div id="tips-for-learning-markdown" class="section level3">
-<h3>Tips for learning Markdown</h3>
-<p><strong>In Markdown, spaces can be tricky</strong>.<br />
-To start a new line here, I needed 2 spaces after <code>tricky.</code> above. As you can see, a simple carriage return doesn’t cut it.</p>
-<p>To force carriage returns, use the <code>&lt;br&gt;</code> html tag…</p>
-<p><br> <br></p>
-<p>…like this.</p>
-<p>Also, this bulleted list won’t render properly: - because there is no carriage return between the line above - and where the bullet points start.</p>
-<p>To have the bullet points render nicely:</p>
-<ul>
-<li>you must have a full blank line</li>
-<li>following “To have the bullet points render nicely:”</li>
-</ul>
-<p><br></p>
-</div>
-<div id="building-a-website-from-scratch" class="section level3">
-<h3>Building a website from scratch</h3>
-<p>If you want to build a website from scratch (i.e. not fork this one), follow RStudio’s instructions here: <a href="https://rmarkdown.rstudio.com/rmarkdown_websites.html">R Markdown Websites</a>.</p>
-<p><strong>Troubleshooting:</strong></p>
-<p>We recently had trouble having our nicely built website display online: the website’s url only showed the README (nicely formatted though!). We solved it by adding:</p>
-<pre><code>output_dir: &quot;.&quot;</code></pre>
-<p>to the <code>_site.yml</code>. This knits all the .html files in place in the home directory instead of in a <code>_site</code> folder, and this solved our problem!</p>
-</div>
-<div id="install-the-rmarkdown-package" class="section level3">
-<h3>Install the <code>rmarkdown</code> package</h3>
-<p>You can do this by:</p>
-<ol style="list-style-type: decimal">
-<li><p>paste this code in the Console and hit enter</p>
-<pre><code>install.packages(&#39;rmarkdown&#39;)
-library(rmarkdown) </code></pre></li>
-<li><p>from the menu bar select: Tools &gt; Install Packages… “rmarkdown”</p></li>
-<li><p>from the bottom right pane, click on the Packages tab, click on Install, “rmarkdown”</p></li>
-</ol>
-<!---note that the ``` ``` syntax above renders text as a code-looking block--->
-</div>
-</div>
+<p>TK</p>
 
 
 

diff --git a/index.html b/index.html
@@ -275,6 +275,9 @@ $(document).ready(function () {
         <li>
   <a href="first_observations.html">Get You A Katie: An Analysis of Debut Novel Acknowledgements</a>
 </li>
+<li>
+  <a href="basic_workflow.html">Everything's Fine: My Debut Novel</a>
+</li>
       </ul>
       <ul class="nav navbar-nav navbar-right">
         

diff --git a/getting_sophisticated.html b/getting_sophisticated.html
@@ -350,6 +350,9 @@ div.tocify {
         <li>
   <a href="first_observations.html">Get You A Katie: An Analysis of Debut Novel Acknowledgements</a>
 </li>
+<li>
+  <a href="basic_workflow.html">Everything's Fine: My Debut Novel</a>
+</li>
       </ul>
       <ul class="nav navbar-nav navbar-right">
         

diff --git a/your_turn.html b/your_turn.html
@@ -350,6 +350,9 @@ div.tocify {
         <li>
   <a href="first_observations.html">Get You A Katie: An Analysis of Debut Novel Acknowledgements</a>
 </li>
+<li>
+  <a href="basic_workflow.html">Everything's Fine: My Debut Novel</a>
+</li>
       </ul>
       <ul class="nav navbar-nav navbar-right">
         
